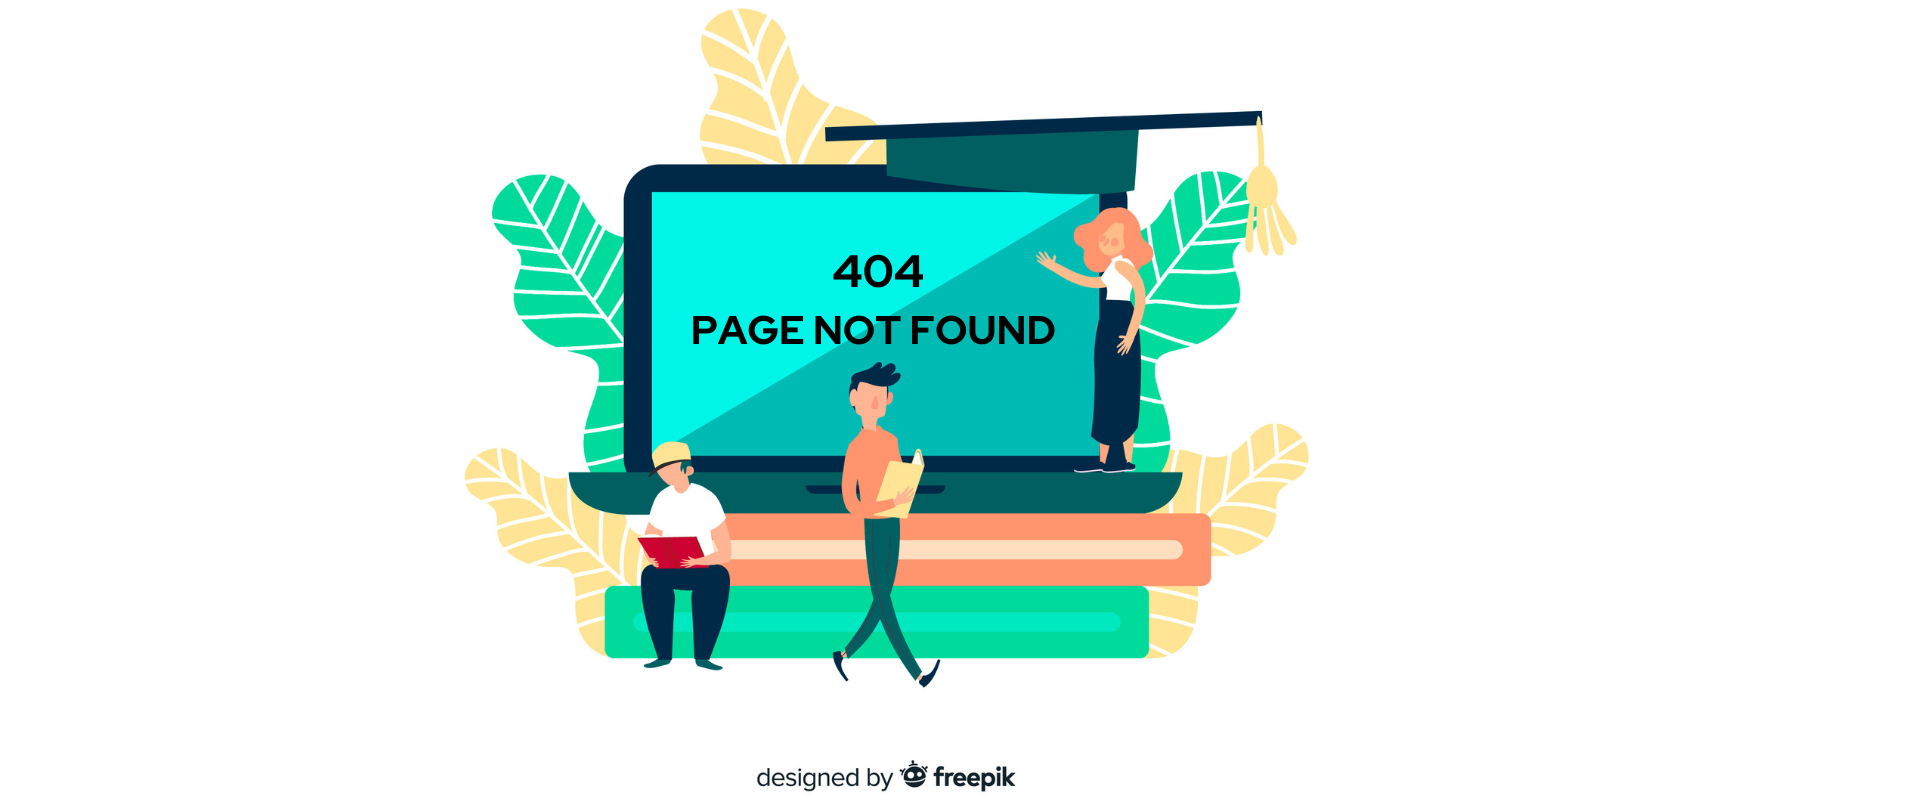
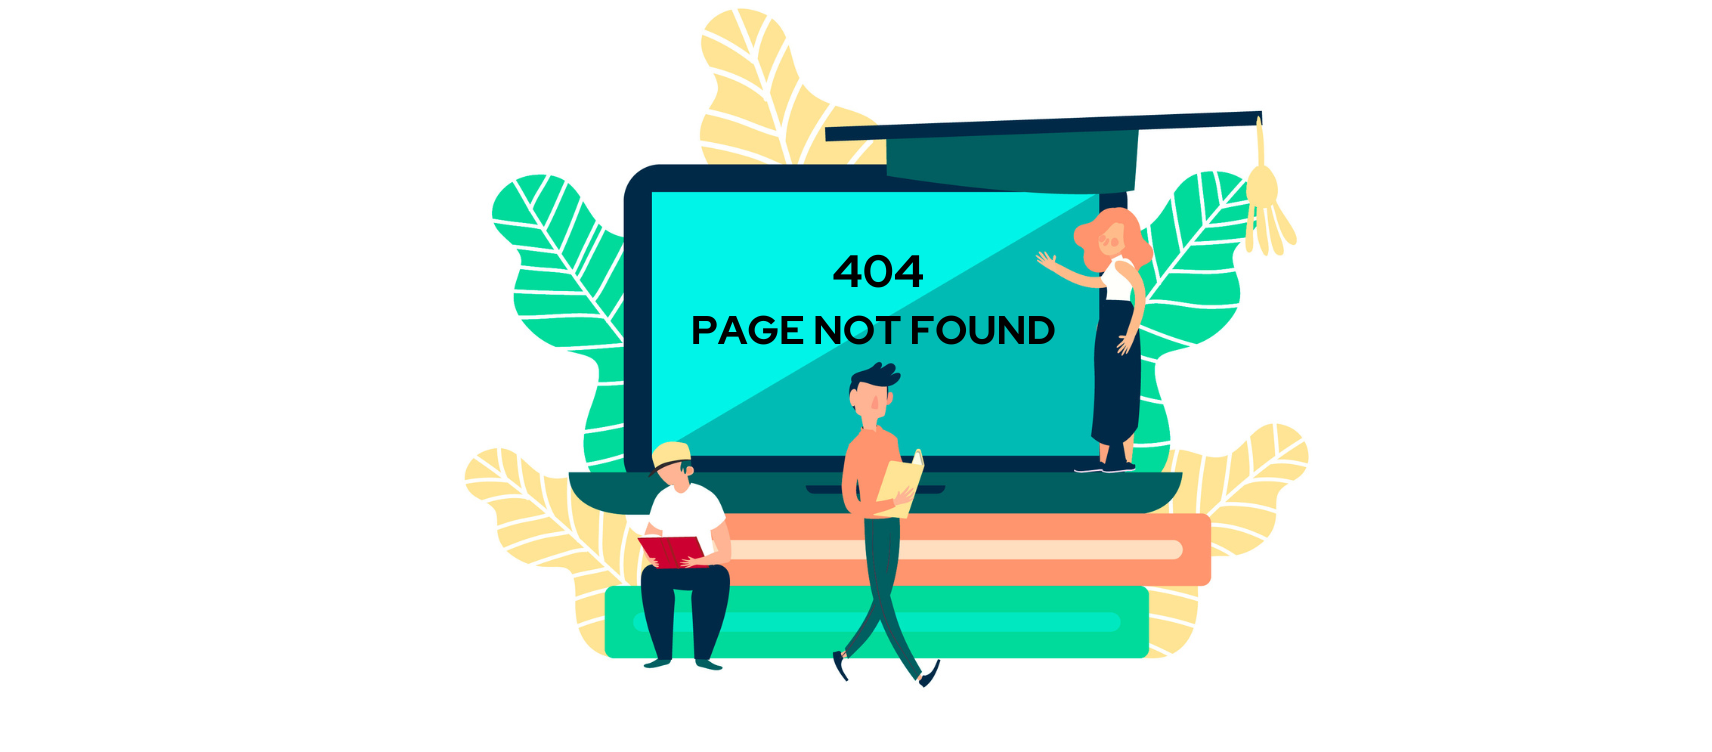
fix: logout + small bugs, add action to reduser

Changed region(s): [[0.2167, 0.0, 0.7739, 0.9176], [0.4025, 0.9481, 0.5263, 1.0]]

diff --git a/src/components/Navigation.tsx b/src/components/Navigation.tsx
@@ -13,11 +13,13 @@ import {
 import { HamburgerIcon } from '@chakra-ui/icons';
 import { NavLink, useNavigate } from 'react-router-dom';
 import { IoLogOutSharp, IoCloseCircleOutline } from 'react-icons/io5';
+import { useGlobal } from '../context/useGlobal';
 
 const Navigation: React.FC = () => {
     const { isOpen, onOpen, onClose } = useDisclosure();
     const navigate = useNavigate();
     const cancelRef = useRef<HTMLDivElement>(null);
+    const { dispatch } = useGlobal();
 
     // Parse the userData
     const userDataString = localStorage.getItem('userData');
@@ -25,10 +27,13 @@ const Navigation: React.FC = () => {
     const isLoggedIn = !!userData;
     const role = userData?.role;
     const initials = userData ? `${userData.firstName[0]} ${userData.lastName[0]}` : 'NN';
-    console.log(initials);
 
     const handleLogout = () => {
         localStorage.clear();
+        dispatch({ type: 'SET_USER', payload: null });
+        dispatch({ type: 'SET_IS_LOGGED_IN', payload: false });
+        dispatch({ type: 'SET_STUDENTS', payload: [] });
+        dispatch({ type: 'SET_TUTOR', payload: null });
         navigate('/');
     };
 
@@ -126,7 +131,7 @@ const Navigation: React.FC = () => {
                     {isLoggedIn && role === 'parent' && (
                         <Button
                             as={NavLink}
-                            to="/parent-dashboard"
+                            to="/parentdashboard"
                             fontSize="12px"
                             fontWeight="bold"
                             _hover={{ textDecoration: 'none', color: 'yellow.950' }}
@@ -154,7 +159,7 @@ const Navigation: React.FC = () => {
                             <Avatar
                                 as={NavLink}
                                 fontSize="10px"
-                                to="/tutor-profile"
+                                to="/tutorprofile"
                                 bg="#D9D9D9"
                                 color="black"
                                 name={initials}
@@ -233,7 +238,7 @@ const Navigation: React.FC = () => {
                                     fontSize="12px"
                                     fontWeight="bold"
                                     _hover={{ textDecoration: 'none' }}
-                                    to="/parent-dashboard"
+                                    to="/parentdashboard"
                                     onClick={onClose}
                                 >
                                     My Dashboard
@@ -257,7 +262,7 @@ const Navigation: React.FC = () => {
                                     <Avatar
                                         as={NavLink}
                                         fontSize="10px"
-                                        to="/tutor-profile"
+                                        to="/tutorprofile"
                                         onClick={onClose}
                                         bg="#D9D9D9"
                                         color="black"

diff --git a/src/App.tsx b/src/App.tsx
@@ -1,6 +1,4 @@
-import './App.css';
-
-import { Route, Routes } from 'react-router-dom';
+import { Navigate, Route, Routes } from 'react-router-dom';
 
 import AuthPage from './pages/AuthPage';
 import LandingPage from './pages/LandingPage';
@@ -19,12 +17,13 @@ const App = () => {
                 <Route path="/" element={<Layout />}>
                     <Route index element={<LandingPage />} />
                     <Route path="/auth" element={<AuthPage activeTab={'login'} />} />
-                    <Route path="/parent-dashboard" element={<ParentDashboardPage />} />
-                    <Route path="/tutor-profile" element={<TutorProfilePage />} />
+                    <Route path="/parentdashboard" element={<ParentDashboardPage />} />
+                    <Route path="/tutorprofile" element={<TutorProfilePage />} />
                     <Route path="/tutorsearch" element={<TutorSearchPage />} />
                     <Route path="/tutordashboard" element={<TutorDashboard />} />
-                    <Route path="*" element={<NotFoundPage />} />
                     <Route path="/about" element={<AboutPage />} />
+                    <Route path="/notFound" element={<NotFoundPage />} />
+                    <Route path="*" element={<Navigate replace to="/notFound" />} />
                 </Route>
             </Routes>
         </>

diff --git a/src/context/GlobalStateContext.tsx b/src/context/GlobalStateContext.tsx
@@ -8,9 +8,10 @@ interface GlobalStateProviderProps {
 
 type Action =
     | { type: 'SET_STUDENTS'; payload: Student[] }
-    | { type: 'SET_USER'; payload: User }
+    | { type: 'UPDATE_STUDENTS'; payload: Student }
+    | { type: 'SET_USER'; payload: User | null }
     | { type: 'SET_IS_LOGGED_IN'; payload: boolean }
-    | { type: 'SET_TUTOR'; payload: Tutor };
+    | { type: 'SET_TUTOR'; payload: Tutor | null };
 
 export interface GlobalStateProps {
     students: Student[];
@@ -32,6 +33,17 @@ const reducer = (state: GlobalStateProps, action: Action): GlobalStateProps => {
     switch (action.type) {
         case 'SET_STUDENTS':
             return { ...state, students: action.payload };
+        case 'UPDATE_STUDENTS': {
+            const studentIndex = state.students.findIndex(
+                (student) => student._id === action.payload._id
+            );
+            if (studentIndex !== -1) {
+                const updatedStudents = [...state.students];
+                updatedStudents[studentIndex] = action.payload;
+                return { ...state, students: updatedStudents };
+            }
+            return state;
+        }
         case 'SET_USER':
             return { ...state, user: action.payload };
         case 'SET_IS_LOGGED_IN':

diff --git a/src/pages/TutorProfilePage.tsx b/src/pages/TutorProfilePage.tsx
@@ -197,6 +197,7 @@ const TutorProfilePage: React.FC = () => {
                         setInitialValues(data.tutor);
                         dispatch({ type: 'SET_TUTOR', payload: data.tutor });
                         setIsLoading(false);
+                        setIsEditing(false);
                         // setMessage(response?.data.message);
                     } else {
                         throw new Error('Tutor update failed');
@@ -292,6 +293,7 @@ const TutorProfilePage: React.FC = () => {
                     if (status === 200) {
                         setSelectedImage(null);
                         dispatch({ type: 'SET_TUTOR', payload: data.tutor });
+                        setInitialValues(data.tutor);
                         setIsLoading(false);
                         setIsEditing(false);
                         toast({
@@ -343,6 +345,7 @@ const TutorProfilePage: React.FC = () => {
                         setSelectedImage(null);
                         dispatch({ type: 'SET_TUTOR', payload: data.tutor });
                         setIsEditing(false);
+                        setInitialValues(data.tutor);
                         actions.resetForm();
                         onClose();
                         return;

diff --git a/src/pages/TutorDashboard.tsx b/src/pages/TutorDashboard.tsx
@@ -8,7 +8,7 @@ import TableSearch from '../components/TableSearch';
 import { TutorStudents } from '../models/interfaces';
 import TutorTable from '../components/TutorTable';
 import axios from 'axios';
-import { headers } from '../util/index';
+import { getHeaders } from '../util';
 import { theme } from '../util/theme';
 
 const TutorDashboard: React.FC = () => {
@@ -25,7 +25,7 @@ const TutorDashboard: React.FC = () => {
             try {
                 const res = await axios.get(
                     `${import.meta.env.VITE_REACT_URL}students/my-students`,
-                    { headers }
+                    { headers: getHeaders() }
                 );
                 setStudents(res.data.students);
                 setLoading(false);
@@ -39,7 +39,7 @@ const TutorDashboard: React.FC = () => {
     }, []);
 
     return (
-        <Flex direction="column">
+        <Flex w="full" direction="column">
             <Box display={{ base: 'block', md: 'none' }} width="100%" mt="50px">
                 <Button
                     bg={theme.colors.customYellow}

diff --git a/src/util/index.ts b/src/util/index.ts
@@ -1,10 +1,3 @@
-import axios, { AxiosRequestConfig } from 'axios';
-
-const token = localStorage.getItem('token');
-
-export const headers = {
-    Authorization: `Bearer ${token}`,
-};
 export const getHeaders = () => {
     const token = localStorage.getItem('token');
     const headers = {
@@ -12,26 +5,3 @@ export const getHeaders = () => {
     };
     return headers;
 };
-
-// note: not used, but could be used with GET with params
-const getData = async (url: string, params: AxiosRequestConfig) => {
-    try {
-        const res = await axios.get(url, params);
-        const data = await res.data;
-        return data;
-    } catch (error) {
-        console.log(error, `error - getData in ${url} route`);
-    }
-};
-
-const getAllData = async (url: string) => {
-    try {
-        const res = await axios.get(url, { headers });
-        const data = await res.data;
-        return data;
-    } catch (error) {
-        console.log(error, `error - getAllData in ${url} route`);
-    }
-};
-
-export { getData, getAllData };

diff --git a/src/pages/NotFoundPage.tsx b/src/pages/NotFoundPage.tsx
@@ -1,18 +1,16 @@
 import React from 'react';
-import { Box, Flex, useBreakpointValue } from '@chakra-ui/react';
+import { Box, Flex } from '@chakra-ui/react';
 import backgroundImage from '../assets/404NotFound.png';
 
 // Displays Page Not found
 const NotFoundPage: React.FC = () => {
-    const bgSize = useBreakpointValue({ base: '100% 100%', sm: 'cover' });
-
     return (
         <Flex
             direction="column"
             align="center"
             justify="center"
             w="full"
-            h="100vh"
+            h="86vh"
             position="relative"
         >
             {/* Background Image */}
@@ -20,7 +18,7 @@ const NotFoundPage: React.FC = () => {
                 w="full"
                 h="full"
                 bgImage={`url(${backgroundImage})`}
-                bgSize={bgSize}
+                bgSize="cover"
                 bgPos="center"
                 bgRepeat="no-repeat"
                 position="absolute"

diff --git a/src/components/RegistrationForm.tsx b/src/components/RegistrationForm.tsx
@@ -98,9 +98,9 @@ const RegistrationForm: React.FC = () => {
                     dispatch({ type: 'SET_IS_LOGGED_IN', payload: true });
 
                     if (role === 'parent') {
-                        navigate('/parent-dashboard');
+                        navigate('/parentdashboard');
                     } else {
-                        navigate('/tutor-profile');
+                        navigate('/tutorprofile');
                     }
                 } catch (error) {
                     console.error('Registration failed:', error);

diff --git a/src/components/LoginForm.tsx b/src/components/LoginForm.tsx
@@ -71,9 +71,9 @@ const LoginForm: React.FC = () => {
                     dispatch({ type: 'SET_IS_LOGGED_IN', payload: true });
 
                     if (role === 'parent') {
-                        navigate('/parent-dashboard');
+                        navigate('/parentdashboard');
                     } else {
-                        navigate('/tutor-profile');
+                        navigate('/tutorprofile');
                     }
                 } catch (error) {
                     console.error('Login failed:', error);

diff --git a/src/components/Layout.tsx b/src/components/Layout.tsx
@@ -8,7 +8,7 @@ import backgroundImage from '../assets/new_bg.jpg';
 
 const Layout: React.FC = () => {
     const location = useLocation();
-    const isHomePage = location.pathname === '/';
+    const isHomePage = location.pathname === '/' || location.pathname === '/notFound';
     const sizeHeader = { maxWidth: '1440px', margin: '0 auto' };
     const contentStyle = {
         maxWidth: isHomePage ? 'full' : '1440px',

diff --git a/src/pages/LandingPage.tsx b/src/pages/LandingPage.tsx
@@ -10,7 +10,7 @@ const LandingPage: React.FC = () => {
     };
 
     return (
-        <Flex direction="column" align="center" justify="center" w="full" h="100vh">
+        <Flex direction="column" align="center" justify="center" w="full" h="86vh">
             <VStack spacing={8} align="stretch" w="full" maxW="768px" mx="auto" zIndex="1">
                 <Heading
                     as="h1"
